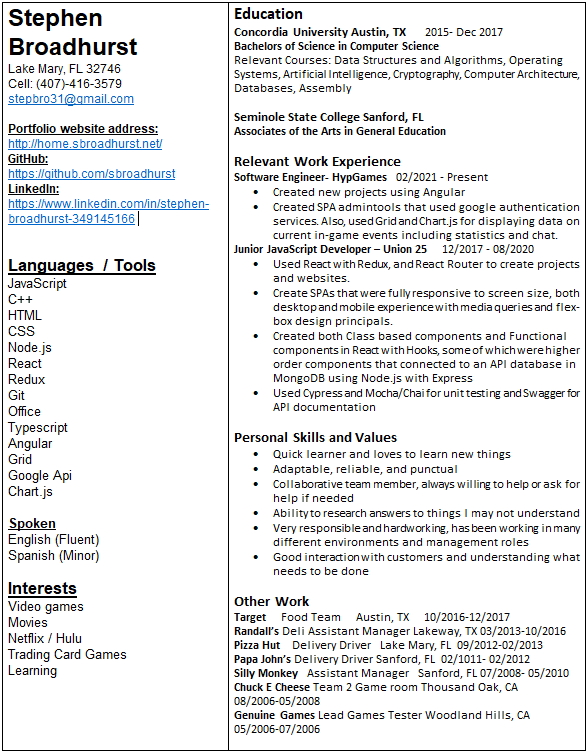
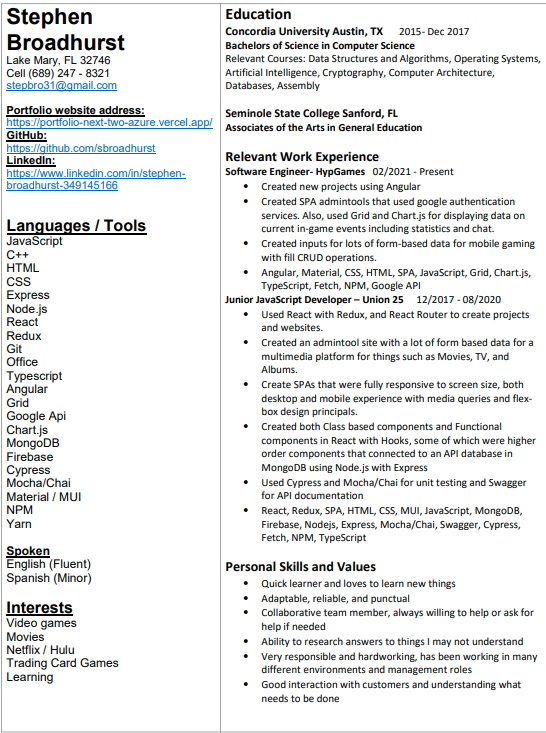
resume image and link update and skills updates

diff --git a/src/components/aboutMeTabs/SkillsTab.js b/src/components/aboutMeTabs/SkillsTab.js
@@ -31,7 +31,7 @@ const SkillsTab = () => {
           <Typography>&ensp;NPM : 5 Years</Typography>
         </DeviIcon>
         <DeviIcon className="devicon-angularjs-plain">
-          <Typography>&ensp;Angular : 1 Year</Typography>
+          <Typography>&ensp;Angular : 2 Years</Typography>
         </DeviIcon>
         <DeviIcon className="devicon-typescript-plain">
           <Typography>&ensp;TypeScript: 4 Years</Typography>
@@ -49,7 +49,7 @@ const SkillsTab = () => {
           <Typography>&ensp;MongoDB : 3 Years</Typography>
         </DeviIcon>
         <DeviIcon className="devicon-slack-plain">
-          <Typography>&ensp;Slack: 1 Year</Typography>
+          <Typography>&ensp;Slack: 2 Years</Typography>
         </DeviIcon>
         <DeviIcon className="devicon-vscode-plain">
           <Typography>&ensp;VS Code: 5 Years</Typography>
@@ -88,6 +88,9 @@ const SkillsTab = () => {
         </DeviIcon>
         <DeviIcon className="devicon-storybook-plain">
           <Typography>&ensp;Storybook</Typography>
+        </DeviIcon>
+        <DeviIcon className="devicon-angularjs-plain">
+          <Typography>&ensp;AngularJS</Typography>
         </DeviIcon>
       </CardRow>
     </div>

diff --git a/src/components/aboutMeTabs/Resume.js b/src/components/aboutMeTabs/Resume.js
@@ -15,8 +15,8 @@ const Resume = () => {
           <Typography>
             View Resume or{' '}
             <a
-              style={{ textDecoration: 'none' }}
-              href="https://drive.google.com/file/d/1_SFZvQuSzEWr9gFm1XLTCbkYiwXDAK45/view?usp=sharing"
+              style={{ textDecoration: 'none', color: 'blue' }}
+              href="https://drive.google.com/file/d/1CkXvmfShC8o2BLGE6DOf7okeYrAgwcvz/view?usp=sharing"
               target="_blank"
               rel="noopener noreferrer">
               Click Here{' '}
